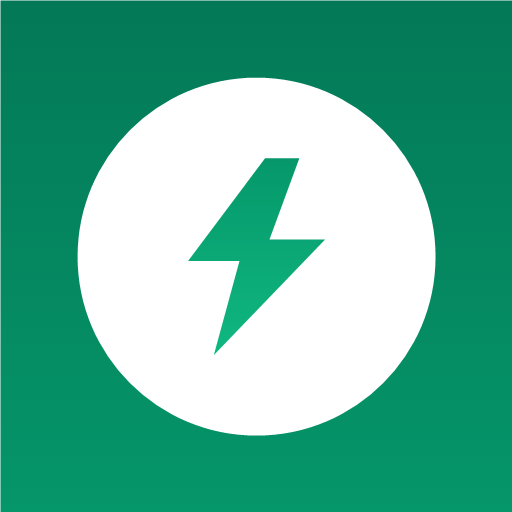
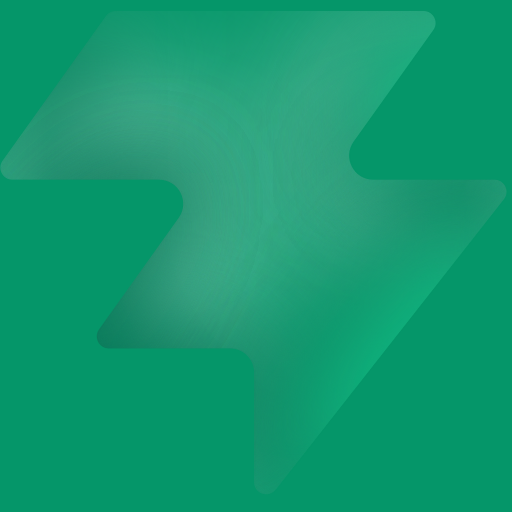
fix: synchronize and repair branding assets across all environments
- Replace favicon-light.svg and favicon-dark.svg with consistent favicon.svg bolt design
- Generate favicon-16x16.png, favicon-32x32.png, apple-touch-icon.png (180x180)
- Regenerate PWA icons (icon-192.png, icon-512.png) from source favicon.svg
- Add browserconfig.xml for Windows/Edge tile support
- Add Open Graph and Twitter Card meta tags to index.html
- Add dedicated apple-touch-icon link and PNG favicon fallbacks
- Update manifest.json and vite PWA config icons for consistency
- Remove deprecated paymobsandbox.com from CSP, Permissions-Policy, and vite config
- Add nginx cache block for branding assets (7d cache)
- Update gen-pwa-icons.js to generate all missing icon formats

diff --git a/backend/scripts/gen-pwa-icons.js b/backend/scripts/gen-pwa-icons.js
@@ -1,19 +1,39 @@
-// One-off: rasterize the brand favicon.svg into PWA PNG icons (192 + 512).
+// Rasterize the brand favicon.svg into all required PNG/ICO icons.
 // Run from project root: node backend/scripts/gen-pwa-icons.js
 import sharp from 'sharp';
 import { readFileSync } from 'node:fs';
 import { resolve, dirname } from 'node:path';
 import { fileURLToPath } from 'node:url';
 
-const root = resolve(dirname(fileURLToPath(import.meta.url)), '..', '..');
-const svg = readFileSync(resolve(root, 'frontend/public/favicon.svg'));
-const out = (n) => resolve(root, `frontend/public/icon-${n}.png`);
+const FILL = { r: 5, g: 150, b: 105 }; // #059669
+const ALPHA_BG = { ...FILL, alpha: 1 };
 
-for (const size of [192, 512]) {
-  await sharp(svg, { density: 384 })
-    .resize(size, size, { fit: 'contain', background: { r: 5, g: 150, b: 105, alpha: 1 } })
-    .flatten({ background: { r: 5, g: 150, b: 105 } })
+const root = resolve(dirname(fileURLToPath(import.meta.url)), '..', '..');
+const publicDir = resolve(root, 'frontend', 'public');
+
+// Source favicon.svg (complex green bolt) — also favicon-light for light theme
+const faviconSvg = readFileSync(resolve(publicDir, 'favicon.svg'));
+const faviconLightSvg = readFileSync(resolve(publicDir, 'images', 'favicon-light.svg'));
+
+async function rasterize(svgBuf, size, filename, bg = ALPHA_BG) {
+  const dest = resolve(publicDir, filename);
+  await sharp(svgBuf, { density: size * 2 })
+    .resize(size, size, { fit: 'contain', background: bg })
+    .flatten({ background: FILL })
     .png()
-    .toFile(out(size));
-  console.log('wrote', out(size));
+    .toFile(dest);
+  console.log('wrote', dest);
 }
+
+// PWA icons — from root favicon.svg
+await rasterize(faviconSvg, 192, 'icon-192.png');
+await rasterize(faviconSvg, 512, 'icon-512.png');
+
+// Apple Touch Icon (180x180 for iOS) — also from root favicon.svg
+await rasterize(faviconSvg, 180, 'apple-touch-icon.png');
+
+// Favicon PNG fallbacks for older browsers
+await rasterize(faviconLightSvg, 32, 'favicon-32x32.png');
+await rasterize(faviconLightSvg, 16, 'favicon-16x16.png');
+
+console.log('All icons generated.');

diff --git a/frontend/index.html b/frontend/index.html
@@ -12,8 +12,25 @@
     <meta name="apple-mobile-web-app-title" content="CourtZon" />
     <meta name="application-name" content="CourtZon" />
     <meta name="format-detection" content="telephone=no" />
+    <meta name="msapplication-TileColor" content="#059669" />
+    <meta name="msapplication-config" content="/browserconfig.xml" />
+    <meta property="og:title" content="CourtZon - Sports Facility Booking" />
+    <meta property="og:description" content="Book sports facilities, join tournaments, shop marketplace & connect with coaches" />
+    <meta property="og:type" content="website" />
+    <meta property="og:url" content="https://courtzon.cloud" />
+    <meta property="og:image" content="https://courtzon.cloud/icon-512.png" />
+    <meta property="og:image:width" content="512" />
+    <meta property="og:image:height" content="512" />
+    <meta property="og:image:type" content="image/png" />
+    <meta name="twitter:card" content="summary" />
+    <meta name="twitter:title" content="CourtZon - Sports Facility Booking" />
+    <meta name="twitter:description" content="Book sports facilities, join tournaments, shop marketplace & connect with coaches" />
+    <meta name="twitter:image" content="https://courtzon.cloud/icon-512.png" />
     <link rel="icon" href="/images/favicon-light.svg" type="image/svg+xml" />
-    <link rel="apple-touch-icon" href="/icon-192.png" />
+    <link rel="icon" href="/favicon-32x32.png" type="image/png" sizes="32x32" />
+    <link rel="icon" href="/favicon-16x16.png" type="image/png" sizes="16x16" />
+    <link rel="apple-touch-icon" href="/apple-touch-icon.png" />
+    <link rel="apple-touch-icon" href="/icon-192.png" sizes="192x192" />
     <link rel="apple-touch-startup-image" href="/apple-splash-1290x2796.png" media="(device-width: 430px) and (device-height: 932px) and (-webkit-device-pixel-ratio: 3)" />
     <link rel="apple-touch-startup-image" href="/apple-splash-1179x2556.png" media="(device-width: 393px) and (device-height: 852px) and (-webkit-device-pixel-ratio: 3)" />
     <link rel="apple-touch-startup-image" href="/apple-splash-1170x2532.png" media="(device-width: 390px) and (device-height: 844px) and (-webkit-device-pixel-ratio: 3)" />

diff --git a/frontend/vite.config.ts b/frontend/vite.config.ts
@@ -12,7 +12,7 @@ export default defineConfig(({ command }) => ({
       ? [
     VitePWA({
       registerType: 'autoUpdate',
-      includeAssets: ['favicon.svg', 'images/favicon-light.svg', 'images/favicon-dark.svg', 'icons.svg', 'icon-192.png', 'icon-512.png', 'screenshot-phone.png', 'apple-splash-*.png'],
+      includeAssets: ['favicon.svg', 'favicon-16x16.png', 'favicon-32x32.png', 'images/favicon-light.svg', 'images/favicon-dark.svg', 'icons.svg', 'icon-192.png', 'icon-512.png', 'apple-touch-icon.png', 'screenshot-phone.png', 'apple-splash-*.png', 'browserconfig.xml'],
       manifest: {
         id: '/',
         name: 'CourtZon - Sports Facility Booking',
@@ -26,7 +26,9 @@ export default defineConfig(({ command }) => ({
         orientation: 'portrait-primary',
         categories: ['sports', 'lifestyle', 'health'],
         icons: [
-          { src: '/favicon.svg', sizes: 'any', type: 'image/svg+xml', purpose: 'any' },
+          { src: '/images/favicon-light.svg', sizes: 'any', type: 'image/svg+xml', purpose: 'any' },
+          { src: '/favicon-32x32.png', sizes: '32x32', type: 'image/png', purpose: 'any' },
+          { src: '/favicon-16x16.png', sizes: '16x16', type: 'image/png', purpose: 'any' },
           { src: '/icon-192.png', sizes: '192x192', type: 'image/png', purpose: 'any' },
           { src: '/icon-192.png', sizes: '192x192', type: 'image/png', purpose: 'maskable' },
           { src: '/icon-512.png', sizes: '512x512', type: 'image/png', purpose: 'any' },
@@ -121,7 +123,7 @@ export default defineConfig(({ command }) => ({
     port: Number(process.env.VITE_DEV_PORT) || 5173,
     strictPort: false,
     headers: {
-      'Permissions-Policy': 'payment=(self "https://accept.paymob.com" "https://accept.paymobsandbox.com")',
+      'Permissions-Policy': 'payment=(self "https://accept.paymob.com")',
     },
     proxy: {
       '/auth': backend,